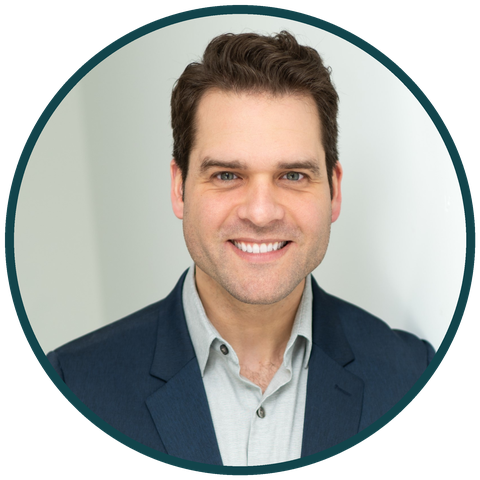
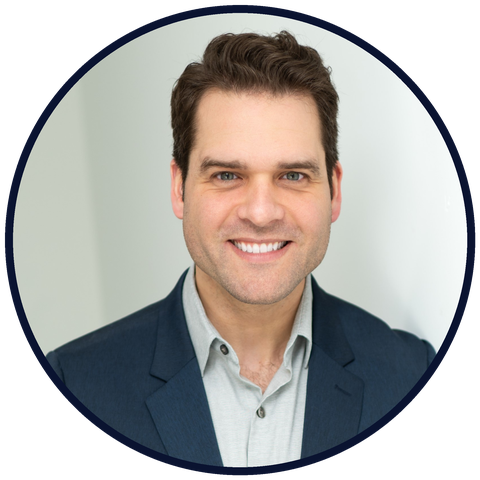
Re-theme email signature to REAL navy/cyan palette (#235)
Per Andrew's feedback on v1: replaces the teal theme with The Real
Brokerage's navy (#0A1330) + cyan (#29BEF3) accent, recolours the
REAL wordmark and REALTOR block-R to navy, adds a cyan accent bar
under the name, and tightens the logo strip into a snug left group
(no distributed spacing, no hairline dividers).

Changed region(s): [[0.0, 0.0, 1.0, 1.0]]

diff --git a/apps/web/public/signature/index.html b/apps/web/public/signature/index.html
@@ -8,10 +8,10 @@
 <style>
   body { margin:0; background:#F2F5F5; font-family:Arial, Helvetica, sans-serif; color:#22333B; }
   .wrap { max-width:720px; margin:40px auto; padding:0 20px; }
-  h1 { font-size:22px; color:#093E45; }
+  h1 { font-size:22px; color:#0A1330; }
   .card { background:#fff; border:1px solid #DCE4E4; border-radius:10px; padding:32px; margin:20px 0; }
-  button { background:#093E45; color:#fff; border:0; border-radius:8px; padding:12px 22px; font-size:15px; font-weight:bold; cursor:pointer; }
-  button:hover { background:#0E5560; }
+  button { background:#0A1330; color:#fff; border:0; border-radius:8px; padding:12px 22px; font-size:15px; font-weight:bold; cursor:pointer; }
+  button:hover { background:#232F6B; }
   ol { line-height:1.7; }
   .note { font-size:13px; color:#51626B; }
 </style>
@@ -21,42 +21,43 @@
   <h1>Andrew Shaw — Email Signature</h1>
   <div class="card" id="sigcard">
     <!-- Andrew Shaw email signature -->
-    <table cellpadding="0" cellspacing="0" border="0" style="border-collapse:collapse; font-family:Arial, Helvetica, sans-serif; width:560px; max-width:560px;">
+    <table cellpadding="0" cellspacing="0" border="0" style="border-collapse:collapse; font-family:Arial, Helvetica, sans-serif; width:540px; max-width:540px;">
       <tr>
-        <td valign="middle" width="132" style="padding:0 0 18px 0;">
-          <img src="https://agentrunway.ca/signature/andrew-shaw-headshot.png" width="118" height="118" alt="Andrew Shaw" style="display:block; width:118px; height:118px; border:0;">
+        <td valign="middle" width="130" style="padding:0 0 16px 0;">
+          <img src="https://agentrunway.ca/signature/andrew-shaw-headshot.png" width="114" height="114" alt="Andrew Shaw" style="display:block; width:114px; height:114px; border:0;">
         </td>
-        <td valign="middle" style="border-left:3px solid #093E45; padding:2px 0 20px 22px;">
-          <div style="font-size:21px; line-height:26px; font-weight:bold; letter-spacing:2.5px; color:#093E45;">ANDREW&nbsp;SHAW</div>
-          <div style="font-size:13px; line-height:20px; color:#51626B; padding-top:7px;">
-            <span style="font-weight:bold; color:#093E45;">REALTOR&reg;</span>&nbsp; <span style="color:#7C9E92;">&bull;</span>&nbsp; The Real Brokerage<br>
-            <span style="font-weight:bold; color:#093E45;">Founder &amp; President</span>&nbsp; <span style="color:#7C9E92;">&bull;</span>&nbsp; Agent Runway
+        <td valign="middle" style="border-left:2px solid #0A1330; padding:2px 0 18px 22px;">
+          <div style="font-size:21px; line-height:25px; font-weight:bold; letter-spacing:2.5px; color:#0A1330;">ANDREW&nbsp;SHAW</div>
+          <table cellpadding="0" cellspacing="0" border="0" style="border-collapse:collapse;"><tr><td width="44" height="3" style="background-color:#29BEF3; font-size:0; line-height:0;">&nbsp;</td></tr></table>
+          <div style="font-size:13px; line-height:20px; color:#3E4A63; padding-top:8px;">
+            <span style="font-weight:bold; color:#0A1330;">REALTOR&reg;</span> <span style="color:#29BEF3;">&middot;</span> The Real Brokerage<br>
+            <span style="font-weight:bold; color:#0A1330;">Founder &amp; President</span> <span style="color:#29BEF3;">&middot;</span> Agent Runway
           </div>
-          <div style="font-size:13px; line-height:19px; padding-top:11px;">
-            <a href="tel:+15066501242" style="color:#0E5560; text-decoration:none; font-weight:bold;">(506)&nbsp;650-1242</a>
-            &nbsp;<span style="color:#7C9E92;">&bull;</span>&nbsp;
-            <a href="mailto:andrew@andrewdshaw.ca" style="color:#0E5560; text-decoration:none; font-weight:bold;">andrew@andrewdshaw.ca</a>
+          <div style="font-size:13px; line-height:19px; padding-top:10px;">
+            <a href="tel:+15066501242" style="color:#0A1330; text-decoration:none; font-weight:bold;">(506)&nbsp;650-1242</a>
+            <span style="color:#29BEF3;">&nbsp;&middot;&nbsp;</span>
+            <a href="mailto:andrew@andrewdshaw.ca" style="color:#0A1330; text-decoration:none; font-weight:bold;">andrew@andrewdshaw.ca</a>
           </div>
         </td>
       </tr>
       <tr>
-        <td colspan="2" style="border-top:1px solid #DCE4E4; padding:16px 0 0 0;">
-          <table cellpadding="0" cellspacing="0" border="0" width="100%" style="border-collapse:collapse; width:100%;">
+        <td colspan="2" style="border-top:1px solid #E2E6EE; padding:14px 0 0 0;">
+          <table cellpadding="0" cellspacing="0" border="0" style="border-collapse:collapse;">
             <tr>
-              <td valign="middle" width="72" style="padding:0 18px 0 0;">
-                <img src="https://agentrunway.ca/signature/as-monogram.png" width="54" height="54" alt="Andrew Shaw REALTOR&reg; monogram" style="display:block; width:54px; height:54px; border:0;">
+              <td valign="middle" style="padding:0;">
+                <img src="https://agentrunway.ca/signature/as-monogram.png" width="44" height="44" alt="Andrew Shaw REALTOR&reg; monogram" style="display:block; width:44px; height:44px; border:0;">
               </td>
-              <td valign="middle" width="101" style="border-left:1px solid #DCE4E4; padding:0 18px;">
-                <img src="https://agentrunway.ca/signature/real-logo.png" width="65" height="30" alt="The Real Brokerage" style="display:block; width:65px; height:30px; border:0;">
+              <td valign="middle" style="padding:0 0 0 28px;">
+                <img src="https://agentrunway.ca/signature/real-logo.png" width="63" height="29" alt="The Real Brokerage" style="display:block; width:63px; height:29px; border:0;">
               </td>
-              <td valign="middle" width="133" style="border-left:1px solid #DCE4E4; padding:0 18px;">
-                <a href="https://agentrunway.ca" style="text-decoration:none; border:0;"><img src="https://agentrunway.ca/signature/agent-runway-lockup.png" width="97" height="32" alt="Agent Runway" style="display:block; width:97px; height:32px; border:0;"></a>
+              <td valign="middle" style="padding:0 0 0 28px;">
+                <a href="https://agentrunway.ca" style="text-decoration:none; border:0;"><img src="https://agentrunway.ca/signature/agent-runway-lockup.png" width="91" height="30" alt="Agent Runway" style="display:block; width:91px; height:30px; border:0;"></a>
               </td>
-              <td valign="middle" width="44" style="border-left:1px solid #DCE4E4; padding:0 0 0 18px;">
-                <img src="https://agentrunway.ca/signature/realtor-r.png" width="25" height="30" alt="REALTOR&reg;" style="display:block; width:25px; height:30px; border:0;">
+              <td valign="middle" style="padding:0 0 0 28px;">
+                <img src="https://agentrunway.ca/signature/realtor-r.png" width="23" height="28" alt="REALTOR&reg;" style="display:block; width:23px; height:28px; border:0;">
               </td>
-              <td valign="middle" align="right" style="padding:0;">
-                <a href="https://agentrunway.ca" style="font-size:12px; font-weight:bold; letter-spacing:1px; color:#0E5560; text-decoration:none;">agentrunway.ca</a>
+              <td valign="middle" style="padding:0 0 0 28px;">
+                <a href="https://agentrunway.ca" style="font-size:12px; font-weight:bold; letter-spacing:1px; color:#0A1330; text-decoration:none;">agentrunway.ca</a>
               </td>
             </tr>
           </table>
@@ -65,7 +66,7 @@
     </table>
   </div>
   <button id="copybtn" onclick="copySig()">Copy signature</button>
-  <span id="copied" style="display:none; color:#0E5560; font-weight:bold; margin-left:12px;">Copied!</span>
+  <span id="copied" style="display:none; color:#29399B; font-weight:bold; margin-left:12px;">Copied!</span>
   <div class="card">
     <strong>Install</strong>
     <ol>
